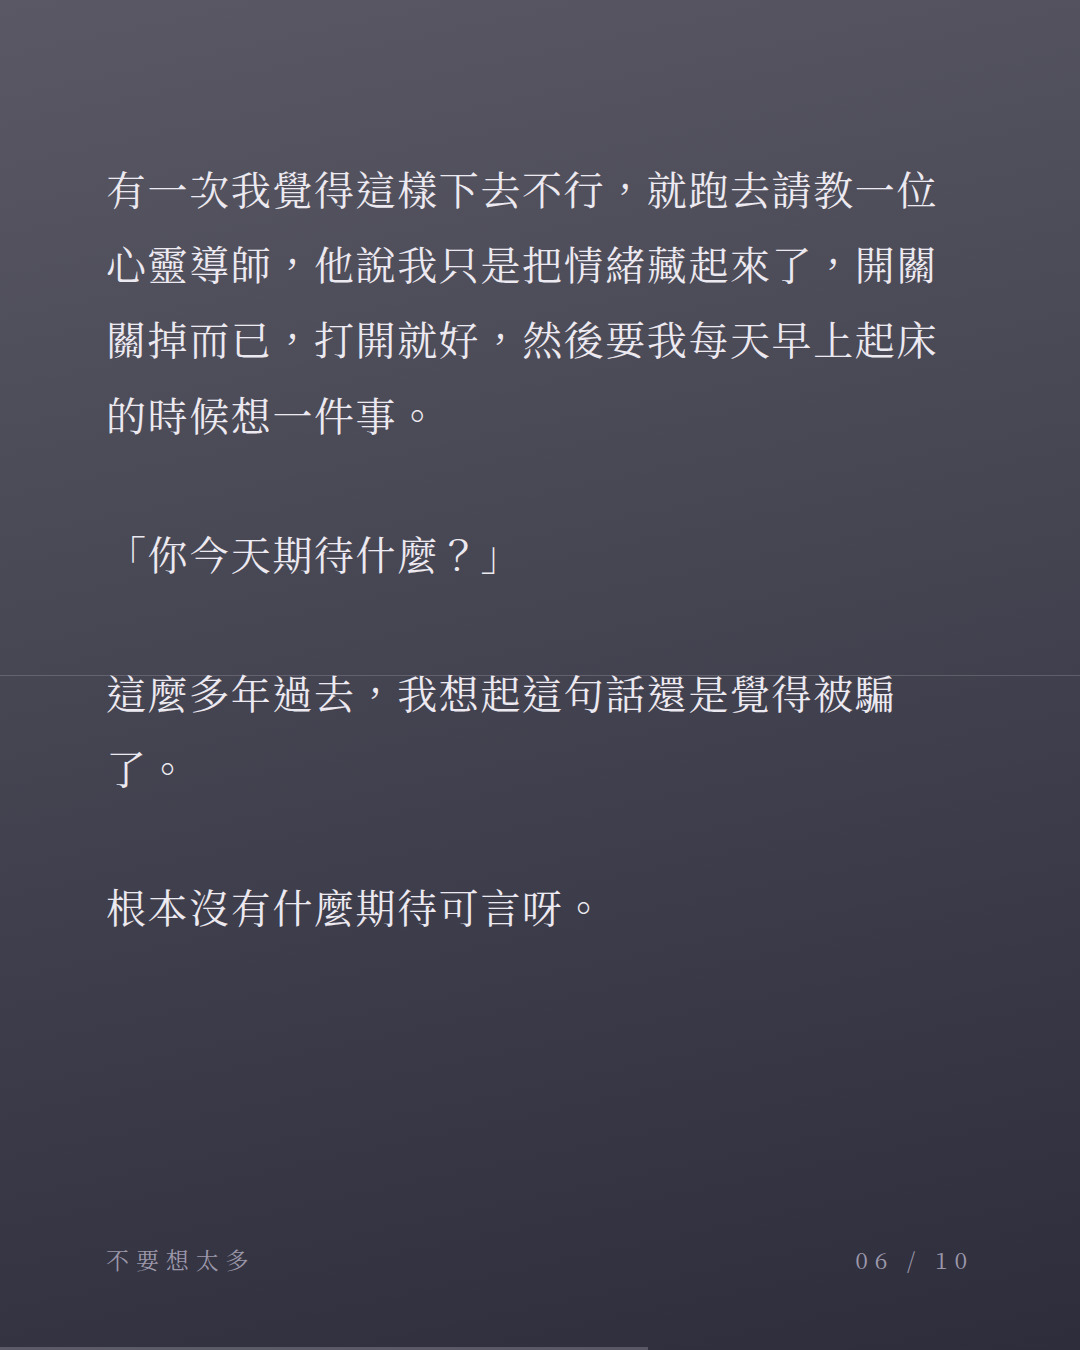
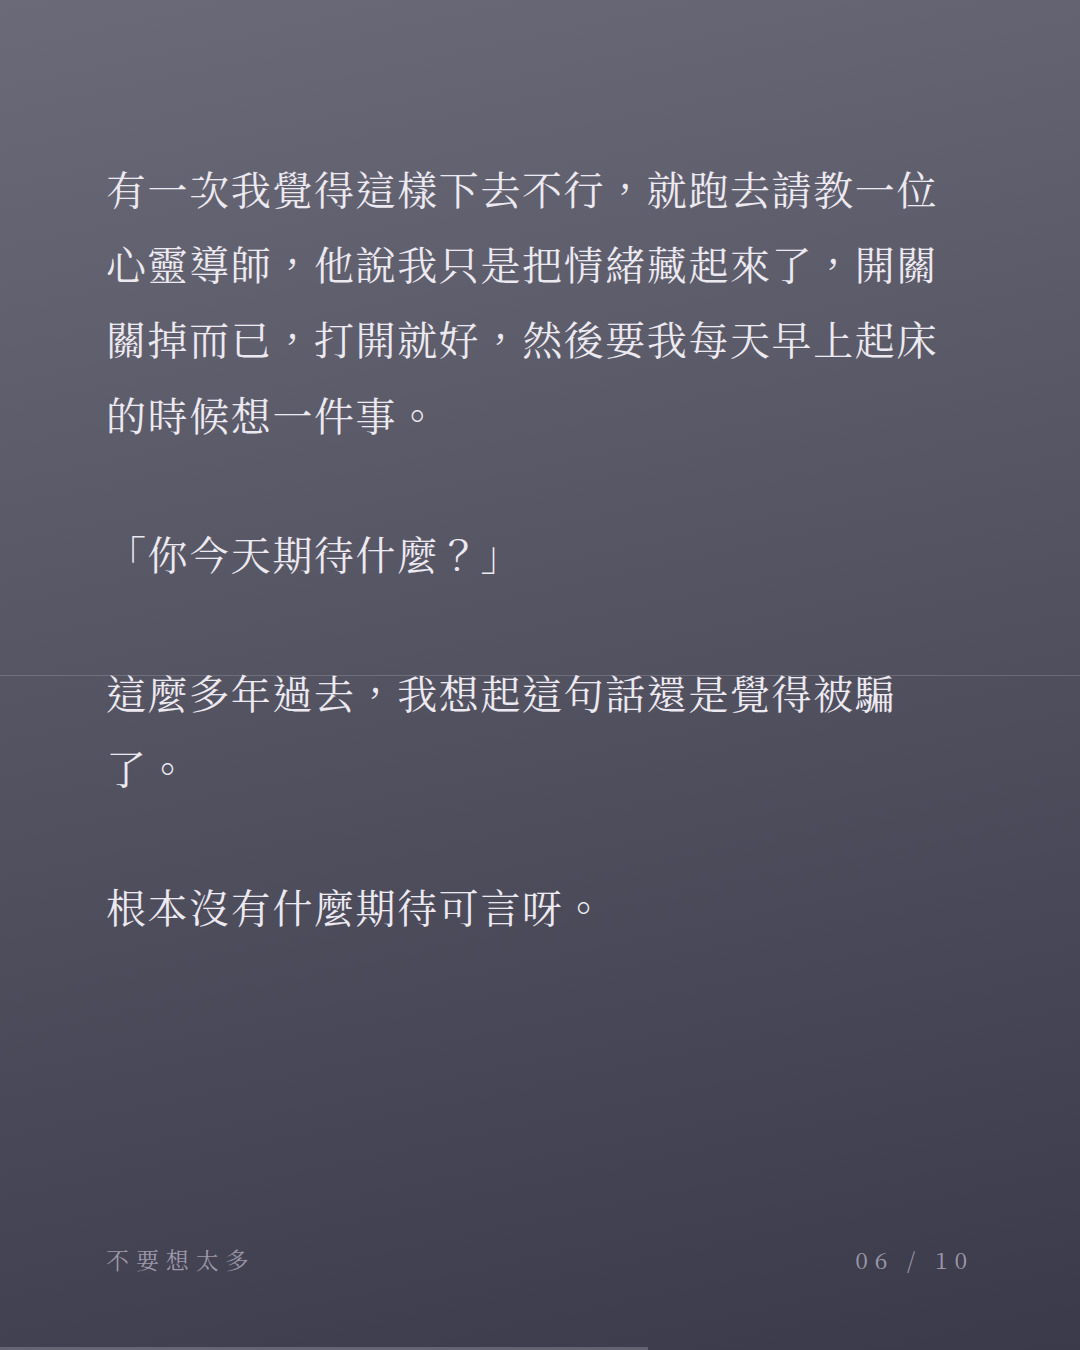
整組同色

diff --git a/ops/make_cards.py b/ops/make_cards.py
@@ -100,7 +100,7 @@ def main():
     cb = chromium()
 
     for i, sl in enumerate(slides, 1):
-        t = (i-1)/max(total-1, 1)          # 0 → 1，整組逐格入夜
+        t = 0                               # 同系列同顏色：整組不變色
         page = HTML.format(
             c1=mix(s1, e1, t), c2=mix(s2, e2, t),
             fg=S["fg"], sub=S["sub"], ly=round(1350*S["line"]),

diff --git a/posts/make_cards.py b/posts/make_cards.py
@@ -100,7 +100,7 @@ def main():
     cb = chromium()
 
     for i, sl in enumerate(slides, 1):
-        t = (i-1)/max(total-1, 1)          # 0 → 1，整組逐格入夜
+        t = 0                               # 同系列同顏色：整組不變色
         page = HTML.format(
             c1=mix(s1, e1, t), c2=mix(s2, e2, t),
             fg=S["fg"], sub=S["sub"], ly=round(1350*S["line"]),
